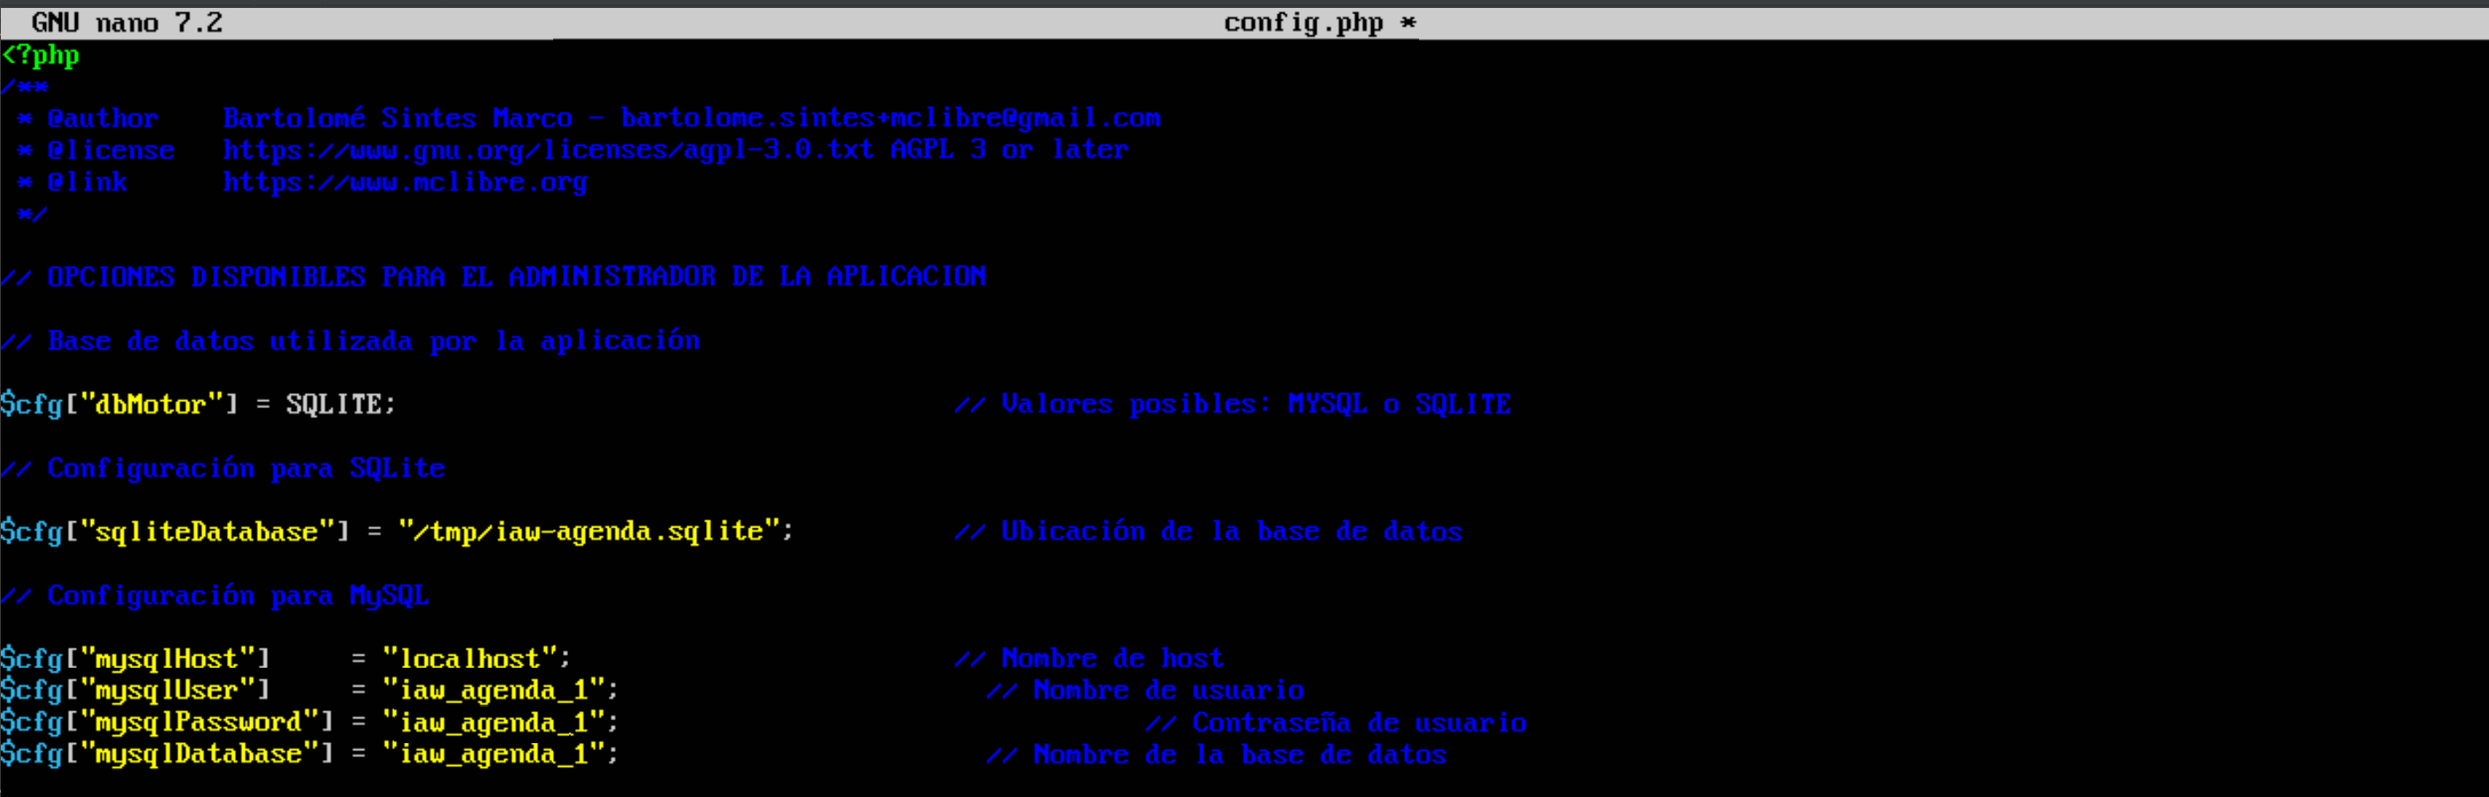
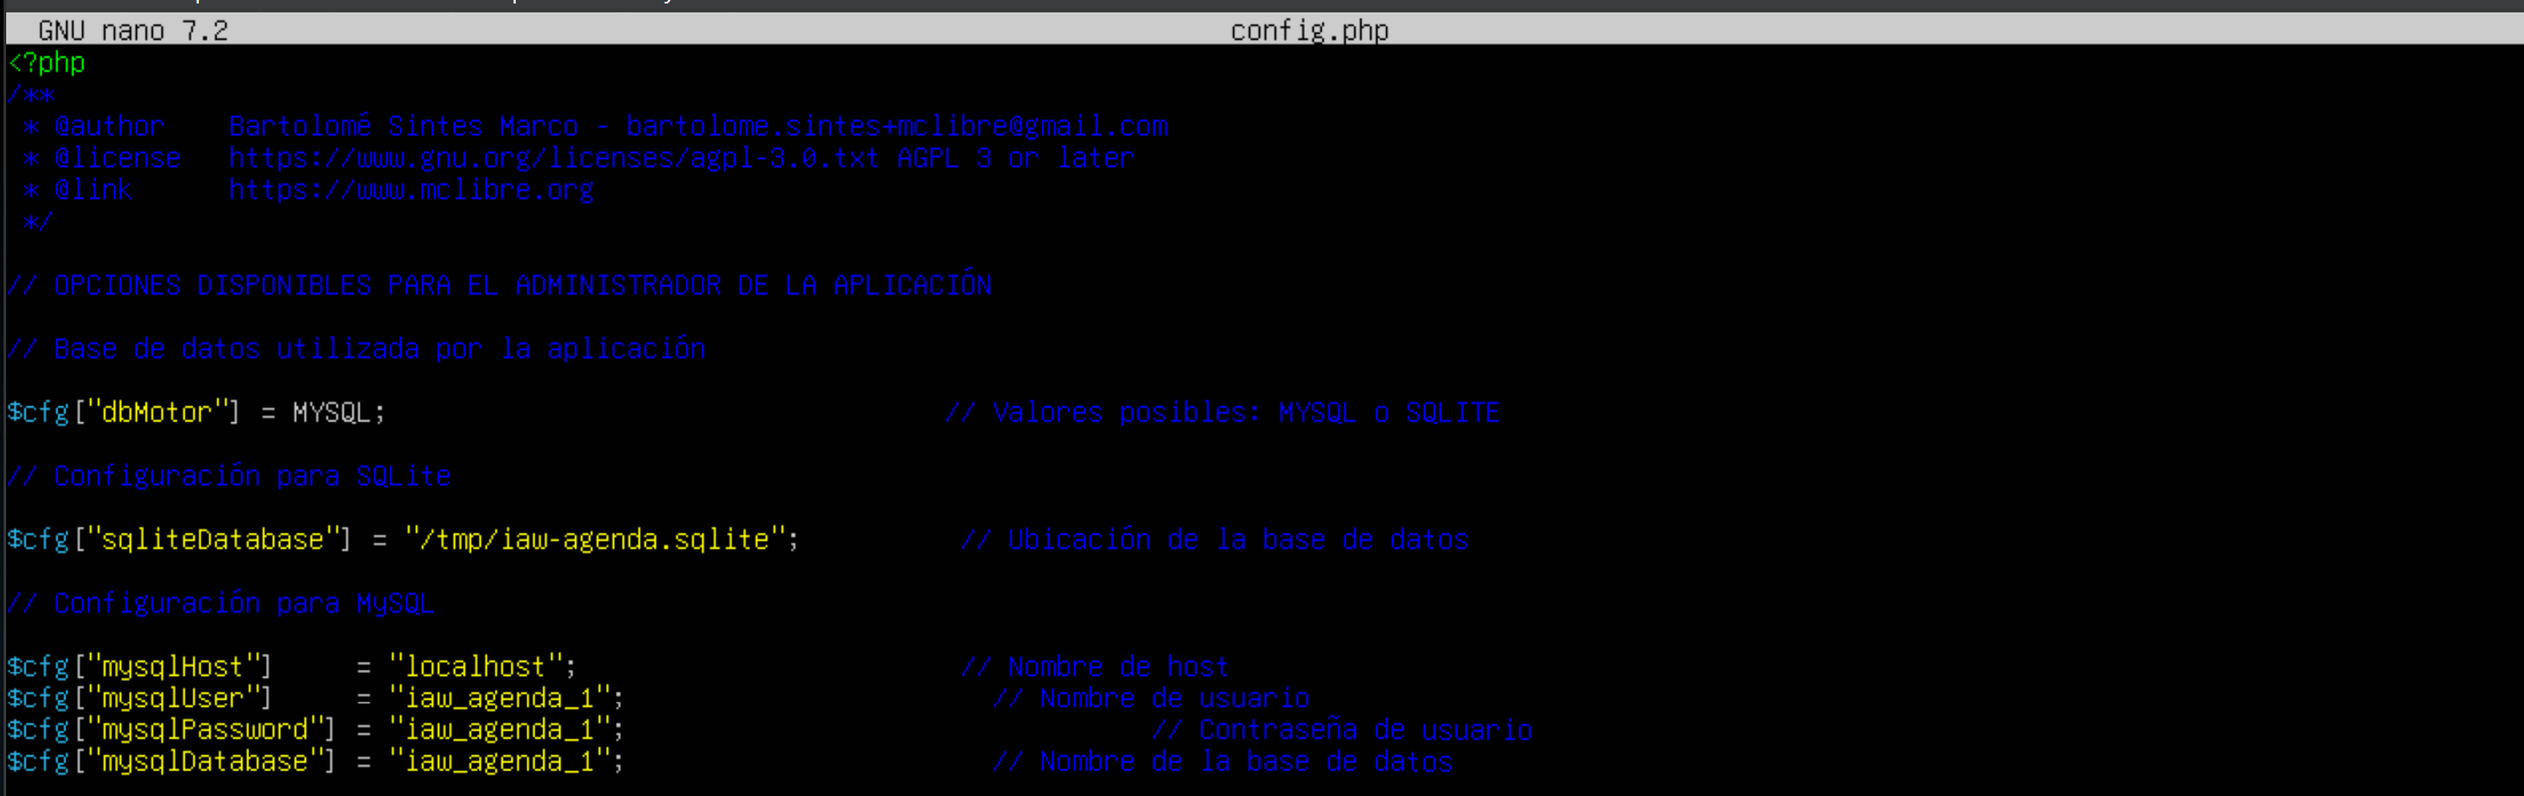
Canvis

diff --git a/site/PRus-2/index.html b/site/PRus-2/index.html
@@ -162,220 +162,103 @@ Lo vamos a copiar del default que ya tenemos por defecto para usarlo de plantill
 <p><strong><em>Sale error en la base de datos</em></strong></p>
 <p><strong>5. Compruebe el contenido de la tabla en phpMyAdmin como usuario iaw_agenda_1.</strong></p>
 <h4 id="phpmyadmin-2-3-crear-un-usuario-iaw_agenda_2-que-pueda-administrar-varias-bases-de-datos">phpMyAdmin (2) 3 - Crear un usuario iaw_agenda_2 que pueda administrar varias bases de datos</h4>
-<ol>
-<li>Cree un nuevo usuario de MySQL/MariaDB con la siguiente configuración</li>
-<li>nombre de usuario: iaw_agenda_2</li>
-<li>servidor: localhost</li>
-<li>contraseña: iaw_agenda_2</li>
-<li>base de datos para el usuario: Otorgar todos los privilegios al nombre que contiene comodín (username_%)</li>
-<li>sin privilegios globales</li>
-<li>
-<p>sin límite de recursos</p>
-</li>
-<li>
-<p>Una vez creado el usuario, entre en phpMyAdmin como usuario iaw_agenda_2 y compruebe que no se ha creado ninguna base de datos.</p>
-</li>
-<li>
-<p>Compruebe que el usuario iaw_agenda_2 no puede crear una base de datos cuyo nombre no empiece por iaw_agenda_2_, por ejemplo una base de datos que se llame agenda_2.</p>
-</li>
-</ol>
+<p><strong>1. Cree un nuevo usuario de MySQL/MariaDB con la siguiente configuración</strong>
+- nombre de usuario: iaw_agenda_2
+- servidor: localhost
+- contraseña: iaw_agenda_2
+- base de datos para el usuario: Otorgar todos los privilegios al nombre que contiene comodín (username_%)
+- sin privilegios globales
+- sin límite de recursos</p>
+<p><strong>2. Una vez creado el usuario, entre en phpMyAdmin como usuario iaw_agenda_2 y compruebe que no se ha creado ninguna base de datos.</strong></p>
+<p><strong>3. Compruebe que el usuario iaw_agenda_2 no puede crear una base de datos cuyo nombre no empiece por iaw_agenda_2_, por ejemplo una base de datos que se llame agenda_2.</strong></p>
 <h4 id="phpmyadmin-2-4-instalar-dos-aplicaciones-como-usuario-iaw_agenda_2">phpMyAdmin (2) 4 - Instalar dos aplicaciones como usuario iaw_agenda_2</h4>
-<ol>
-<li>
-<p>Descargue la aplicación Agenda (17/01/23) (esta aplicación corresponde al ejercicio Bases de datos (2 B) 2 del curso Programación web en PHP).</p>
-</li>
-<li>
-<p>Descomprima la aplicación dos veces en dos carpetas y renombre las carpetas como agenda-2a y agenda-2b.</p>
-</li>
-<li>
-<p>Modifique los archivos de configuración config.php de ambas aplicaciones para que estas utilicen la cuenta del usuario iaw_agenda_2 en MySQL/MariaDB (pero bases de datos distintas).
-<strong>Nota</strong>: Hay que tener en cuenta que el nombre de las bases de datos debe comenzar por el nombre del usuario y un guion bajo (en este caso, iaw_agenda_2_agenda_2a y iaw_agenda_2_agenda_2b, por ejemplo)</p>
-</li>
-</ol>
-<p>Para distinguir después una aplicación de otra fácilmente, puede cambiar el color básico de la aplicación en el archivo de configuración.</p>
-<ol>
-<li>
-<p>Ejecute las aplicaciones en el navegador, eligiendo primero la opción "Borrar todo" para crear la tabla en la base de datos, y compruebe que funcionan creando varios registros.</p>
-</li>
-<li>
-<p>Compruebe los contenidos de las tablas en phpMyAdmin como usuario iaw_agenda_2.</p>
-</li>
-</ol>
+<p><strong>1. Descargue la aplicación Agenda (17/01/23) (esta aplicación corresponde al ejercicio Bases de datos (2 B) 2 del curso Programación web en PHP).</strong></p>
+<p><strong>2. Descomprima la aplicación dos veces en dos carpetas y renombre las carpetas como agenda-2a y agenda-2b.</strong></p>
+<p><strong>3. Modifique los archivos de configuración config.php de ambas aplicaciones para que estas utilicen la cuenta del usuario iaw_agenda_2 en MySQL/MariaDB (pero bases de datos distintas).</strong>
+* <strong>Nota</strong>: Hay que tener en cuenta que el nombre de las bases de datos debe comenzar por el nombre del usuario y un guion bajo (en este caso, iaw_agenda_2_agenda_2a y iaw_agenda_2_agenda_2b, por ejemplo)</p>
+<ul>
+<li>Para distinguir después una aplicación de otra fácilmente, puede cambiar el color básico de la aplicación en el archivo de configuración.</li>
+</ul>
+<p><strong>4. Ejecute las aplicaciones en el navegador, eligiendo primero la opción "Borrar todo" para crear la tabla en la base de datos, y compruebe que funcionan creando varios registros.</strong></p>
+<p><strong>5. Compruebe los contenidos de las tablas en phpMyAdmin como usuario iaw_agenda_2.</strong></p>
 <h4 id="phpmyadmin-2-5-crear-un-usuario-iaw_agenda_3-con-una-base-de-datos-unica">phpMyAdmin (2) 5 - Crear un usuario iaw_agenda_3 con una base de datos única</h4>
-<ol>
-<li>Cree un nuevo usuario de MySQL/MariaDB con la siguiente configuración</li>
-<li>nombre de usuario: iaw_agenda_3</li>
-<li>servidor: localhost</li>
-<li>contraseña: iaw_agenda_3</li>
-<li>base de datos con el mismo nombre (iaw_agenda_3)</li>
-<li>sin privilegios globales</li>
-<li>
-<p>sin límite de recursos</p>
-</li>
-<li>
-<p>Una vez creado el usuario, entre en phpMyAdmin como usuario iaw_agenda_3 y compruebe que se ha creado la base de datos iaw_agenda_3.</p>
-</li>
-</ol>
+<p><strong>1. Cree un nuevo usuario de MySQL/MariaDB con la siguiente configuración</strong>
+- nombre de usuario: iaw_agenda_3
+- servidor: localhost
+- contraseña: iaw_agenda_3
+- base de datos con el mismo nombre (iaw_agenda_3)
+- sin privilegios globales
+- sin límite de recursos</p>
+<p><strong>2. Una vez creado el usuario, entre en phpMyAdmin como usuario iaw_agenda_3 y compruebe que se ha creado la base de datos iaw_agenda_3.</strong></p>
 <h4 id="phpmyadmin-2-6-instalar-dos-aplicaciones-como-usuario-iaw_agenda_3">phpMyAdmin (2) 6 - Instalar dos aplicaciones como usuario iaw_agenda_3</h4>
-<ol>
-<li>
-<p>Descargue la aplicación Agenda (17/01/23) (esta aplicación corresponde al ejercicio Bases de datos (2 B) 2 del curso Programación web en PHP).</p>
-</li>
-<li>
-<p>Descomprima la aplicación en dos carpetas y renombre las carpetas como agenda-3a y agenda-3b.</p>
-</li>
-<li>
-<p>Modifique los archivos de configuración config.php para que las aplicaciones utilicen la cuenta del usuario iaw_agenda_3 en MySQL/MariaDB y la misma base de datos iaw_agenda_3, pero cada una guarde sus registros en tablas distintas.</p>
-</li>
-<li>
-<p>Ejecute las aplicaciones en el navegador y compruebe que funcionan creando varios registros. El problema es que al borrar todo desde una aplicación se borra también la tabla de la otra aplicación.</p>
-</li>
-<li>
-<p>Confirme el problema anterior comprobando los contenidos de las tablas en phpMyAdmin como usuario iaw_agenda_3</p>
-</li>
-</ol>
+<p><strong>1. Descargue la aplicación Agenda (17/01/23) (esta aplicación corresponde al ejercicio Bases de datos (2 B) 2 del curso Programación web en PHP).</strong></p>
+<p><strong>2. Descomprima la aplicación en dos carpetas y renombre las carpetas como agenda-3a y agenda-3b.</strong></p>
+<p><strong>3. Modifique los archivos de configuración config.php para que las aplicaciones utilicen la cuenta del usuario iaw_agenda_3 en MySQL/MariaDB y la misma base de datos iaw_agenda_3, pero cada una guarde sus registros en tablas distintas.</strong></p>
+<p><strong>4. Ejecute las aplicaciones en el navegador y compruebe que funcionan creando varios registros. El problema es que al borrar todo desde una aplicación se borra también la tabla de la otra aplicación.</strong></p>
+<p><strong>5. Confirme el problema anterior comprobando los contenidos de las tablas en phpMyAdmin como usuario iaw_agenda_3</strong></p>
 <h4 id="phpmyadmin-2-7-mejora-de-las-aplicaciones-del-usuario-iaw_agenda_3">phpMyAdmin (2) 7 - Mejora de las aplicaciones del usuario iaw_agenda_3</h4>
 <p><strong>Usuario con un base de datos única</strong></p>
-<ol>
-<li>
-<p>El problema de las aplicaciones del ejercicio 6 es que si se elige la opción "Borrar todo" en una de las aplicaciones se pierde toda la información de la otra aplicación, ya que al "Borrar todo" se borra la base de datos completa. Corrija este problema.</p>
+<p><strong>1. El problema de las aplicaciones del ejercicio 6 es que si se elige la opción "Borrar todo" en una de las aplicaciones se pierde toda la información de la otra aplicación, ya que al "Borrar todo" se borra la base de datos completa. Corrija este problema.</strong></p>
 <blockquote>
 <blockquote>
 <p>Ayuda (haga clic aquí si no se le ocurre cómo hacerlo)</p>
 </blockquote>
 </blockquote>
-</li>
-<li>
-<p>Ejecute las aplicaciones en el navegador y compruebe que funcionan creando varios registros. Compruebe especialmente que al borrar todo desde una aplicación no se borran los registros de la otra.</p>
-</li>
-<li>
-<p>Compruebe los contenidos de las tablas en phpMyAdmin como usuario iaw_agenda_3.</p>
-</li>
-</ol>
+<p><strong>2. Ejecute las aplicaciones en el navegador y compruebe que funcionan creando varios registros. Compruebe especialmente que al borrar todo desde una aplicación no se borran los registros de la otra.</strong></p>
+<p><strong>3. Compruebe los contenidos de las tablas en phpMyAdmin como usuario iaw_agenda_3.</strong></p>
 <p><strong>Usuario con varias bases de datos</strong></p>
-<ol>
-<li>
-<p>Si el usuario iaw_agenda_3 fuera del tipo de los que pueden tener muchas bases de datos, la solución del apartado anterior no sería suficiente, ya que las aplicaciones necesitan que exista la base de datos y las aplicaciones no las crean. Corrija este problema.</p>
+<p><strong>1. Si el usuario iaw_agenda_3 fuera del tipo de los que pueden tener muchas bases de datos, la solución del apartado anterior no sería suficiente, ya que las aplicaciones necesitan que exista la base de datos y las aplicaciones no las crean. Corrija este problema.</strong></p>
 <blockquote>
 <blockquote>
 <p>Ayuda (haga clic aquí si no se le ocurre cómo hacerlo)</p>
 </blockquote>
 </blockquote>
-</li>
-<li>
-<p>Borre el usuario usuario iaw_agenda_3 y créelo de nuevo, pero ahora del tipo de los que pueden crear varias bases de datos. Ejecute las aplicaciones en el navegador y compruebe que funcionan creando varios registros. Compruebe especialmente que al borrar todo desde una aplicación no se borran los registros de la otra.</p>
-</li>
-<li>
-<p>Compruebe los contenidos de las tablas en phpMyAdmin como usuario iaw_agenda_3.</p>
-</li>
-</ol>
+<p><strong>2. Borre el usuario usuario iaw_agenda_3 y créelo de nuevo, pero ahora del tipo de los que pueden crear varias bases de datos. Ejecute las aplicaciones en el navegador y compruebe que funcionan creando varios registros. Compruebe especialmente que al borrar todo desde una aplicación no se borran los registros de la otra.</strong></p>
+<p><strong>3. Compruebe los contenidos de las tablas en phpMyAdmin como usuario iaw_agenda_3.</strong></p>
 <hr />
 <h2 id="phpmyadmin-ejercicios-3-enunciados">phpMyAdmin - Ejercicios (3) - Enunciados</h2>
 <h4 id="phpmyadmin-3-1-completar-instalacion">phpMyAdmin (3) 1 - Completar instalación</h4>
-<ol>
-<li>
-<p>Para mantener la identificación de los usuarios en la base de datos, phpMyAdmin guarda una cookie en el cliente. Esta cookie está encriptada mediante el algoritmo AES, que requiere una cadenas sal aleatoria de 32 caracteres.</p>
-</li>
-<li>
-<p>Elimine el aviso inicial que muestra phpMyAdmin.</p>
-</li>
-</ol>
+<p><strong>1. Para mantener la identificación de los usuarios en la base de datos, phpMyAdmin guarda una cookie en el cliente. Esta cookie está encriptada mediante el algoritmo AES, que requiere una cadenas sal aleatoria de 32 caracteres.</strong></p>
+<p><strong>2. Elimine el aviso inicial que muestra phpMyAdmin.</strong></p>
 <p>Aunque phpMyAdmin utiliza el algoritmo AES, la variable de configuración se llama blowfish_secret debido a que anteriormente phpMyAdmin utilizaba el algoritmo Blowfish. El manual de phpMyAdmin aconseja utilizar una cadena aleatoria de 32 caracteres, que puede generar utilizando algún generador Blowfish de los disponibles en Internet y modificándola para mayor seguridad.</p>
-<ol>
-<li>Compruebe que ya no se muestra el aviso.</li>
-</ol>
+<p><strong>3. Compruebe que ya no se muestra el aviso.</strong></p>
 <h4 id="phpmyadmin-3-2-instalar-tema">phpMyAdmin (3) 2 - Instalar tema</h4>
-<ol>
-<li>
-<p>Aplique el tema Metro:</p>
-</li>
-<li>
-<p>Descargue el tema darkwolf de la página de temas de phpMyAdmin y descomprímalo en la carpeta adecuada.</p>
-</li>
-</ol>
-<p>Si el tema darkwolf ya no está disponible en la web del programa, puede descargarlo desde la página de Descarga de aplicaciones.</p>
-<ol>
-<li>
-<p>Aplique el tema darkwolf:</p>
-</li>
-<li>
-<p>Vuelva al tema predeterminado pmahomme.</p>
-</li>
-</ol>
+<p><strong>1. Aplique el tema Metro:</strong></p>
+<p><strong>2. Descargue el tema darkwolf de la página de temas de phpMyAdmin y descomprímalo en la carpeta adecuada.</strong></p>
+<p><em>Si el tema darkwolf ya no está disponible en la web del programa, puede descargarlo desde la página de Descarga de aplicaciones.</em></p>
+<p><strong>3. Aplique el tema darkwolf:</strong></p>
+<p><strong>4. Vuelva al tema predeterminado pmahomme.</strong></p>
 <h4 id="phpmyadmin-3-3-permitir-borrar-bases-de-datos-a-los-usuarios">phpMyAdmin (3) 3 - Permitir borrar bases de datos a los usuarios</h4>
-<ol>
-<li>
-<p>Como usuario root, compruebe que con phpMyAdmin podría borrar bases de datos (no borre ninguna ahora).
-XAMPP. Borrar bases de datos</p>
-</li>
-<li>
-<p>Como usuario iaw_agenda_1 o iaw_agenda_2, compruebe que con phpMyAdmin no puede borrar sus bases de datos.
-XAMPP. Borrar bases de datos</p>
-</li>
-<li>
-<p>El motivo es que con la configuración inicial, los usuarios no pueden borrar bases de datos. Pero estableciendo una variable de configuración en el archivo de configuración de phpMyAdmin, el usuario podrá borrar bases de datos.</p>
-</li>
-</ol>
+<p><strong>1. Como usuario root, compruebe que con phpMyAdmin podría borrar bases de datos (no borre ninguna ahora).</strong></p>
+<p><strong>2. Como usuario iaw_agenda_1 o iaw_agenda_2, compruebe que con phpMyAdmin no puede borrar sus bases de datos.</strong></p>
+<p><strong>3. El motivo es que con la configuración inicial, los usuarios no pueden borrar bases de datos. Pero estableciendo una variable de configuración en el archivo de configuración de phpMyAdmin, el usuario podrá borrar bases de datos.</strong></p>
 <p>La variable de configuración se documenta en el manual de phpMyAdmin.</p>
-<blockquote>
-<blockquote>
-<p>Ayuda (haga clic aquí si no encuentra el nombre de la variable en la página del manual enlazada)</p>
-</blockquote>
-</blockquote>
-<ol>
-<li>
-<p>Como usuario iaw_agenda_1 o iaw_agenda_2, compruebe que ya puede borrar sus bases de datos.
-XAMPP. Borrar bases de datos</p>
-</li>
-<li>
-<p>Deje el archivo de configuración de manera que los usuarios puedan borrar sus bases de datos, para poder hacer el ejercicio siguiente.</p>
-</li>
-</ol>
+<p><strong>4. Como usuario iaw_agenda_1 o iaw_agenda_2, compruebe que ya puede borrar sus bases de datos.
+XAMPP. Borrar bases de datos</strong></p>
+<p><strong>5. Deje el archivo de configuración de manera que los usuarios puedan borrar sus bases de datos, para poder hacer el ejercicio siguiente.</strong></p>
 <h4 id="phpmyadmin-3-4-realizar-copias-de-seguridad-de-las-bases-de-datos-del-usuario-iaw_agenda_2">phpMyAdmin (3) 4 - Realizar copias de seguridad de las bases de datos del usuario iaw_agenda_2</h4>
-<ol>
-<li>
-<p>Compruebe que hay registros guardados en las tablas personas en ambas bases de datos.</p>
-</li>
-<li>
-<p>Copia de seguridad rápida</p>
-</li>
-<li>
-<p>Realice una copia de seguridad rápida de del usuario iaw_agenda_2</p>
-</li>
+<p><strong>1. Compruebe que hay registros guardados en las tablas personas en ambas bases de datos.</strong></p>
+<p><strong>2. Copia de seguridad rápida</strong></p>
+<ul>
+<li>Realice una copia de seguridad rápida de del usuario iaw_agenda_2</li>
 <li>Borre las bases de datos o las tablas de ambas aplicaciones.</li>
 <li>Restaure las copias de seguridad realizadas.</li>
-<li>
-<p>Compruebe que los registros de las tablas se han recuperado correctamente.</p>
-</li>
-<li>
-<p>Copia de seguridad personalizada completa</p>
-</li>
-<li>Realice una copia de seguridad personalizada de las bases de datos del usuario iaw_agenda_2 (incluyendo el borrado de las bases de datos y sus elementos).</li>
-<li>Borre las bases de datos o las tablas de ambas aplicaciones.</li>
-<li>Restaure las copias de seguridad realizadas.</li>
-<li>
-<p>Compruebe que los registros de las tablas se han recuperado correctamente.</p>
-</li>
-<li>
-<p>Copia de seguridad personalizada parcial</p>
-</li>
-<li>Realice una copia de seguridad personalizada de una de las bases de datos del usuario iaw_agenda_2 (incluyendo el borrado de las bases de datos y sus elementos).</li>
-<li>Borre la base de datos o la tabla elegida.</li>
-<li>Restaure la copias de seguridad realizada.</li>
-<li>Compruebe que los registros de la tabla se han recuperado correctamente.</li>
-</ol>
+<li>Compruebe que los registros de las tablas se han recuperado correctamente.</li>
+</ul>
+<p><strong>3. Copia de seguridad personalizada completa</strong>
+- Realice una copia de seguridad personalizada de las bases de datos del usuario iaw_agenda_2 (incluyendo el borrado de las bases de datos y sus elementos).
+- Borre las bases de datos o las tablas de ambas aplicaciones.
+- Restaure las copias de seguridad realizadas.
+- Compruebe que los registros de las tablas se han recuperado correctamente.</p>
+<p><strong>4. Copia de seguridad personalizada parcial</strong>
+- Realice una copia de seguridad personalizada de una de las bases de datos del usuario iaw_agenda_2 (incluyendo el borrado de las bases de datos y sus elementos).
+- Borre la base de datos o la tabla elegida.
+- Restaure la copias de seguridad realizada.
+- Compruebe que los registros de la tabla se han recuperado correctamente.</p>
 <h4 id="phpmyadmin-3-5-optativo-generar-pdfs-de-la-estructura-de-las-bases-de-datos">phpMyAdmin (3) 5 (optativo) - Generar PDFs de la estructura de las bases de datos</h4>
 <p>phpMyAdmin incluye un diseñador que muestra de forma gráfica la estructura de la base de datos y que también permite exportarla en formato PDF.</p>
-<ol>
-<li>
-<p>Muestre la estructura de la base de datos iaw_agenda_1.
-phpMyAdmin. Generador</p>
-</li>
-<li>
-<p>Exporte el pdf con la estructura de la base de datos iaw_agenda_1.
-phpMyAdmin. Generador</p>
-</li>
-</ol>
+<p><strong>1. Muestre la estructura de la base de datos iaw_agenda_1.</strong></p>
+<p><strong>2. Exporte el pdf con la estructura de la base de datos iaw_agenda_1.</strong></p>
 
   <br>
     

diff --git a/site/index.html b/site/index.html
@@ -220,5 +220,5 @@ if (is_top_frame) { $('body').addClass('wm-top-page'); }
 </html>
 <!--
 MkDocs version : 1.6.1
-Build Date UTC : 2025-11-11 08:28:35.451100+00:00
+Build Date UTC : 2025-11-11 08:38:34.941665+00:00
 -->

diff --git a/docs/PRus-2.md b/docs/PRus-2.md
@@ -5,13 +5,16 @@
 
 En esta lección se proponen ejercicios para practicar el uso de phpMyAdmin instalando pequeñas aplicaciones. Se pueden consultar las soluciones de estos ejercicios de phpMyAdmin, aunque se recomienda intentar realizarlos primero sin recurrir a estas soluciones.
 
-/// Administración de bases de datos on phpMyAdmin
-> Las aplicaciones web que se abordan en este curso utilizan la base de datos MySQL/MariaDB. Por motivos de seguridad, en servidores reales no se recomienda que las aplicaciones se conecten a MySQL/MariaDB como usuario root. Para cada aplicación, es más recomendable crear un usuario en MySQL/MariaDB que administre la aplicación. Ese procedimiento es el que se utilizará en estos apuntes. Para crear esos usuarios y, en general, administrar MySQL/MariaDB, se utilizará la aplicación phpMyAdmin.
+**Administración de bases de datos on phpMyAdmin**
 
-> En esta lección se proponen ejercicios en los que se instalará varias veces una pequeña aplicación de agenda. En los ejercicios se plantean tres situaciones distintas:
+Las aplicaciones web que se abordan en este curso utilizan la base de datos MySQL/MariaDB. Por motivos de seguridad, en servidores reales no se recomienda que las aplicaciones se conecten a MySQL/MariaDB como usuario root. Para cada aplicación, es más recomendable crear un usuario en MySQL/MariaDB que administre la aplicación. Ese procedimiento es el que se utilizará en estos apuntes. Para crear esos usuarios y, en general, administrar MySQL/MariaDB, se utilizará la aplicación phpMyAdmin.
+
+En esta lección se proponen ejercicios en los que se instalará varias veces una pequeña aplicación de agenda. En los ejercicios se plantean tres situaciones distintas:
 
 > · Instalar y configurar manualmente la aplicación como usuario que sólo puede crear una base de datos.
+
 > · Instalar y configurar manualmente dos aplicaciones como usuario que puede crear varias bases de datos.
+
 > · Instalar y configurar manualmente dos aplicaciones como usuario que sólo puede crear una base de datos (es necesario además modificar la aplicación)
 
 
@@ -92,7 +95,7 @@ Para este paso, nos situamos dentro del directorio donde se encuentra el fichero
 ![Imagen](IMG/UsPhpmyadmin/13.png)
 
 Una vez dentro ponemos dicha configuración como pide el enunciado, como se ve en la siguiente imagen.
-En este caso lo que modificamos son las 4 ultimas lineas que salen en la captura.
+En este caso lo que modificamos son las 4 ultimas lineas que salen en la captura, y en la primera linea donde elegimos el tipo de base de datos, ponemos MYSQL ya que es el tipo que usamos.
 
 ![Imagen](IMG/UsPhpmyadmin/14.png)
 
@@ -120,7 +123,10 @@ Elegimos la opción de borrar todo que se muestra en pantalla y aceptamos.
 
 ![Imagen](IMG/UsPhpmyadmin/19.png)
 
-***Sale error en la base de datos***
+Después de borrar todo, podemos ver que nos sale lo siguiente:
+
+![Imagen](IMG/UsPhpmyadmin/20.png)
+
 
 **5. Compruebe el contenido de la tabla en phpMyAdmin como usuario iaw_agenda_1.**
 
